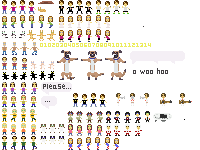
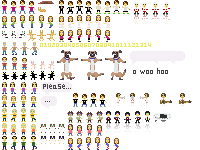
transparent hockey reflections

Changed region(s): [[0.66, 0.0267, 0.84, 0.1333], [0.63, 0.8, 0.75, 0.9067], [0.51, 0.8, 0.6, 0.9067]]

diff --git a/demo/sarah/SpriteFactory.js b/demo/sarah/SpriteFactory.js
@@ -555,7 +555,7 @@
 				framesConfig: {
 					src: this.image,
 					width: 10,
-					height: 13,
+					height: 26,
 					direction: 'horizontal',
 					sets: [[0], [1, 2, 3]],
 					initialSet: 0,
@@ -572,13 +572,13 @@
 				framesConfig: {
 					src: this.image,
 					width: 10,
-					height: 13,
+					height: 26,
 					direction: 'horizontal',
 					sets: [[0], [1, 2, 3]],
 					initialSet: 0,
 					initialFrame: 0,
 					anchor: L7.p(0, 0),
-					offset: L7.p(104, 123)
+					offset: L7.p(132, 2)
 				},
 				position: position || L7.p(0, 0)
 			});
@@ -588,8 +588,8 @@
 			return new L7.Actor({
 				framesConfig: {
 					src: this.image,
-					width: 10,
-					height: 13,
+					width: 9,
+					height: 26,
 					direction: 'horizontal',
 					sets: [[0], [0]],
 					initialSet: 0,

diff --git a/demo/sarah/boards/Hockey.js b/demo/sarah/boards/Hockey.js
@@ -41,11 +41,16 @@
 
 		var avPlayer1 = spriteFactory.avPlayer(L7.p(7, 40));
 		var avPlayer2 = spriteFactory.avPlayer(L7.p(18, 38));
-		var rwPlayer1 = spriteFactory.redwingPlayer(L7.p(33, 36));
+		var rwPlayer1 = spriteFactory.redwingPlayer(L7.p(35, 36));
 		var rwPlayer2 = spriteFactory.redwingPlayer(L7.p(43, 41));
 		var ref = spriteFactory.hockeyRef(L7.p(25, 45));
 
 		fgBoard.addActors(avPlayer1, avPlayer2, rwPlayer1, rwPlayer2, ref);
+
+		fgBoard.tiles.forEach(function(tile) {
+			tile.opaque = tile.position.y > 30;
+		});
+
 		fgBoard.ani.frame({
 			targets: [avPlayer1, avPlayer2, rwPlayer1, rwPlayer2],
 			pieceSetIndex: 1,

diff --git a/demo/sarah/index.debug.html b/demo/sarah/index.debug.html
@@ -34,6 +34,7 @@
 	<script type="text/javascript" src="underscore-min.js"></script>
 	<script type="text/javascript" src="../../lib_min/l7.min.js"></script>
 	<script type="text/javascript" src="../../lib/board/Actor.js"></script>
+	<script type="text/javascript" src="../../lib/board/Tile.js"></script>
 	<script type="text/javascript">
 		(function() {
 			this.SAM = this.SAM || {};

diff --git a/demo/sarah/sam.js b/demo/sarah/sam.js
@@ -52,11 +52,7 @@
 				board: new SAM.Intro(images.intro, tileSize, spriteFactory),
 				transitionIn: 'fade',
 				transitionInDuration: 1000,
-				duration: 200
-			},
-			{
-				board: new SAM.Skydiving(images.skydiving, images.clouds, tileSize, spriteFactory),
-				duration: 13000
+				duration: 20000
 			},
 			{
 				board: new SAM.Race(images.race, tileSize, spriteFactory),
